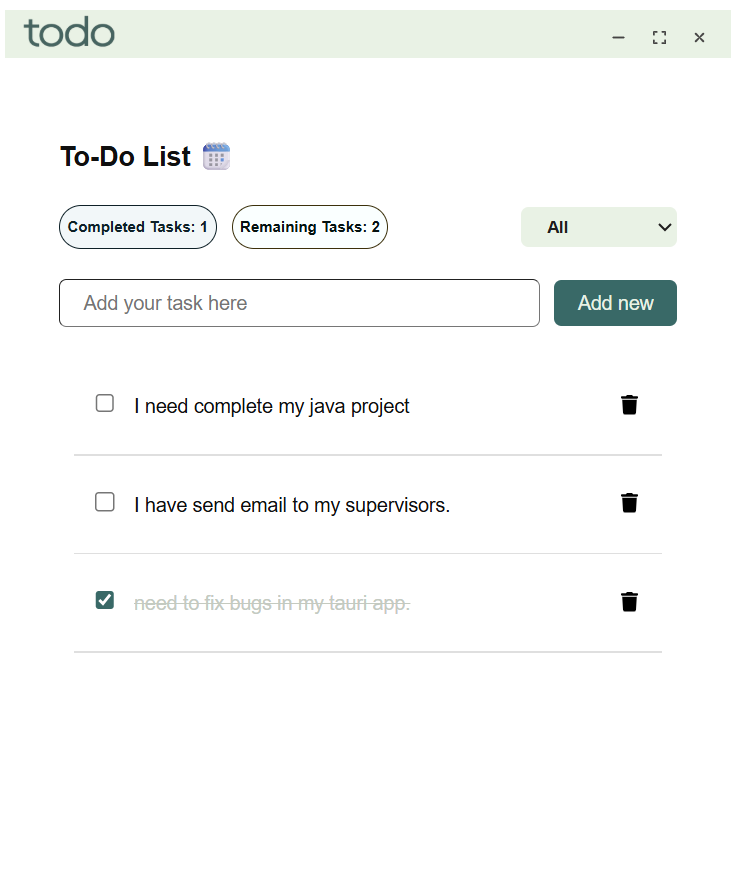
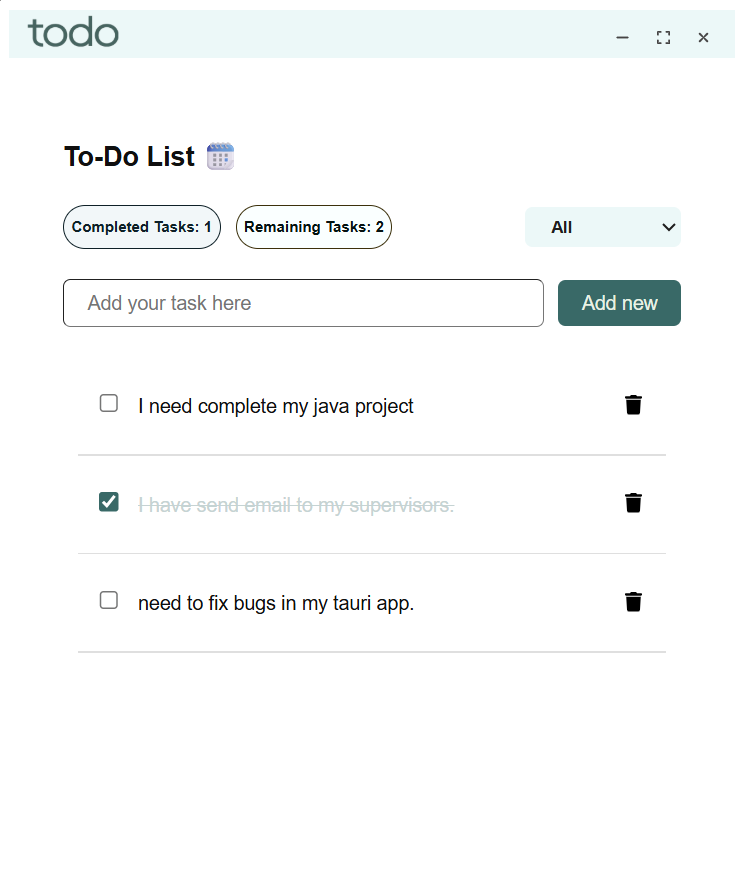
UI changes

diff --git a/todo-desktop-app/src/components/todoList.jsx b/todo-desktop-app/src/components/todoList.jsx
@@ -3,6 +3,7 @@ import { invoke } from "@tauri-apps/api/core";
 import "../App.css";
 import { FontAwesomeIcon } from '@fortawesome/react-fontawesome'
 import { faTrash } from "@fortawesome/free-solid-svg-icons";
+import nodata from "../assets/no-data.png";
 
 function TodoList() {
   const [title, setTitle] = useState("");
@@ -93,7 +94,13 @@ function TodoList() {
         <button className="addButton" onClick={() => addTodo()}>Add new</button>
       </div>
       <div className="taskList">
-        {todoList.map((todo) => (
+        {todoList.length === 0 ? (
+          <div className="noDataSection">
+            <img src={nodata} className="noDataImage" />
+            <p className="noDataText" >Data not found.</p>
+          </div>
+        ) : (
+          todoList.map((todo) => (
           <div key={todo.id}>
             <div className="taskItem">
               <div>
@@ -112,7 +119,8 @@ function TodoList() {
             </div>
             <hr className="customhr" />
           </div>
-        ))}
+        ))
+        )}
       </div>
     </main>
   );

diff --git a/todo-desktop-app/src/App.css b/todo-desktop-app/src/App.css
@@ -224,7 +224,7 @@ button {
 
 .tasktext.completed {
   text-decoration: line-through;
-  color: #c2cabf
+  color: #bfd4d3
 }
 
 .deleteButton {
@@ -288,7 +288,7 @@ input[type="checkbox"]:checked {
   font-size: 11px;
   font-weight: 600;
   border-radius: 5px;
-  background-color: #E7F2E4;
+  background-color: #e8f8f8;
   color: #1f1e1e;
   border: none;
 }
@@ -300,7 +300,7 @@ select {
 
 /* title bar */
 .titlebar {
-  background-color: #E7F2E4;
+  background-color: #e8f8f8;
   color: white;
   display: flex;
   justify-content: space-between;
@@ -328,6 +328,24 @@ select {
   width: 10px;
   height: 10px;
   color: rgb(70, 68, 68);
+}
+
+/* no data found */
+.noDataSection {
+  display: flex;
+  flex-direction: column;
+  align-items: center;
+  justify-content: center;
+}
+
+.noDataImage {
+  width: 50%;
+  height: 50%;
+}
+
+.noDataText {
+  font-size: 13px;
+  font-weight: 700px;
 }
 
 
